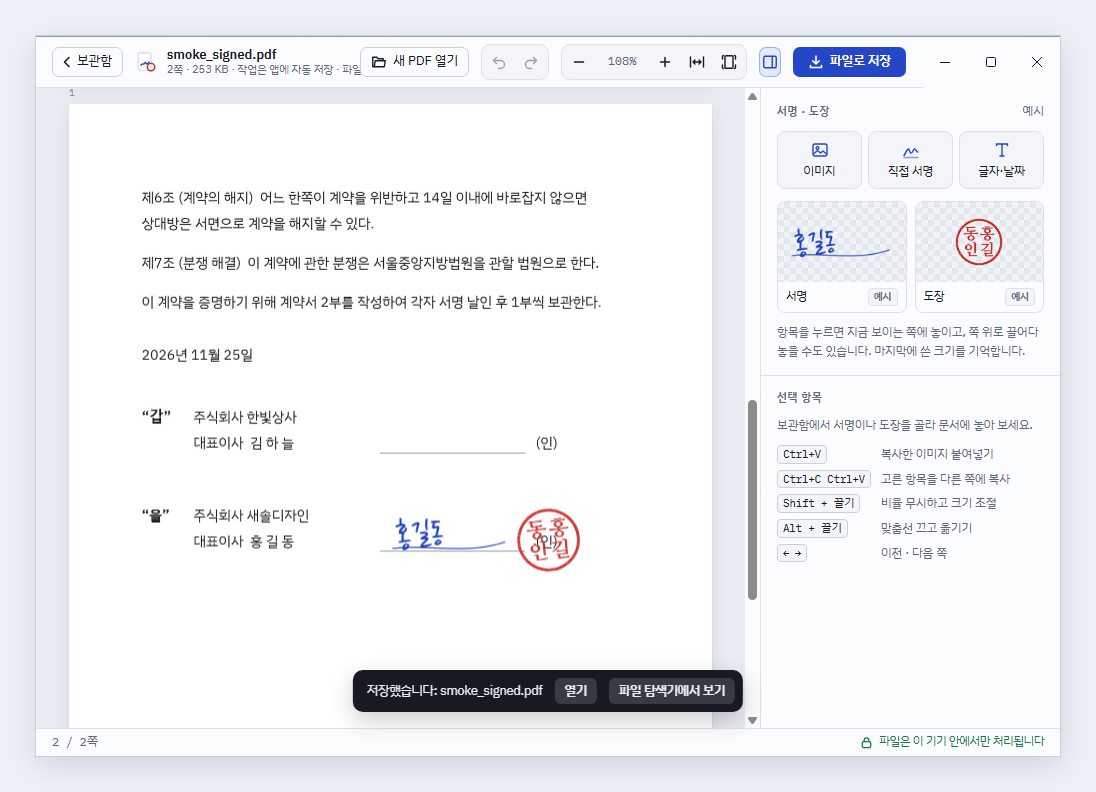
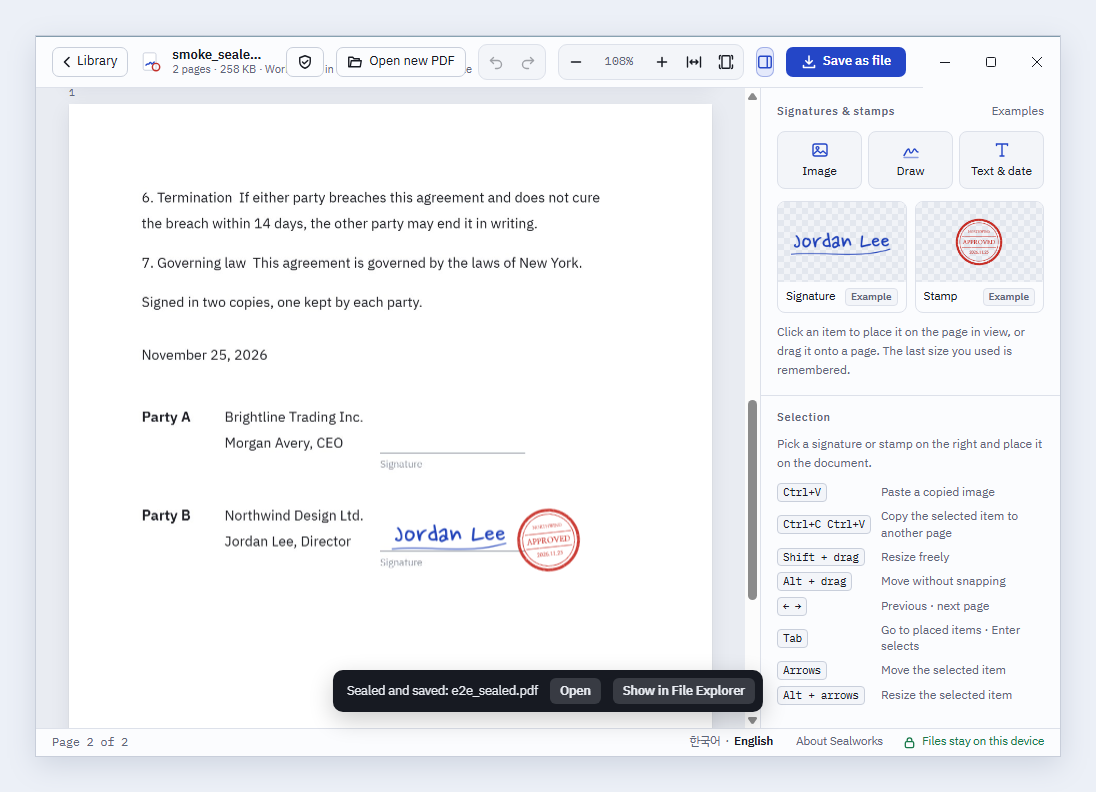
v1.1 Windows screenshots, App Store screenshots, support email, Pages workflow
- README: Windows screenshots from the v1.1 release run (editor, verify seal)
- docs/appstore/screenshots: 2880x1800 Mac App Store shots, English and Korean
- PRIVACY.md: contact support@falconoon.com
- pages workflow publishing site/ to sealworks.falconoon.com

diff --git a/PRIVACY.md b/PRIVACY.md
@@ -80,7 +80,8 @@ If this policy changes, we will publish the new version here with a new effectiv
 ### 9. Contact
 
 - Publisher: Falcon Eyes Inc. (주식회사 팔콘아이즈)
-- Contact: [GitHub Issues](https://github.com/falcons-eyes/pdf-editor/issues). Issues are public, so please don't include personal information or documents.
+- Contact: [support@falconoon.com](mailto:support@falconoon.com). For bug reports you can also use [GitHub Issues](https://github.com/falcons-eyes/pdf-editor/issues); issues are public, so please don't include personal information or documents.
+- Privacy contact: Falcon Eyes Inc. support ([support@falconoon.com](mailto:support@falconoon.com)).
 
 ---
 
@@ -160,5 +161,6 @@ If this policy changes, we will publish the new version here with a new effectiv
 ### 9. 문의처
 
 - 회사: 주식회사 팔콘아이즈 (Falcon Eyes Inc.)
-- 문의: [GitHub Issues](https://github.com/falcons-eyes/pdf-editor/issues). 이슈는 누구나 볼 수 있으니 개인정보나 문서는 올리지 마세요.
-- 개인정보 보호책임자(또는 개인정보 고충 처리 부서)의 성명·부서와 전화번호: **TODO (게시 전 법무 확인 필요):** 「개인정보 보호법」 제30조와 시행령 제31조가 처리방침에 적도록 한 항목입니다. 회사가 개인정보를 처리하지 않더라도 적어 둘지 법무가 정하고, 적는다면 이 줄을 실제 정보로 바꿉니다.
+- 문의: [support@falconoon.com](mailto:support@falconoon.com). 버그 제보는 [GitHub Issues](https://github.com/falcons-eyes/pdf-editor/issues)도 됩니다. 이슈는 누구나 볼 수 있으니 개인정보나 문서는 올리지 마세요.
+- 개인정보 보호책임자: 주식회사 팔콘아이즈 고객지원 담당 ([support@falconoon.com](mailto:support@falconoon.com))
+<!-- 「개인정보 보호법」 제30조·시행령 제31조: 책임자 성명·부서·전화번호를 정하면 이 줄에 추가합니다. -->

diff --git a/README.ko.md b/README.ko.md
@@ -88,12 +88,13 @@ macOS
 
 <img src="docs/images/hero-ko.png" alt="macOS에서 계약서 서명란에 서명과 도장을 놓은 편집 화면" width="900">
 
-Windows (1.0 버전 화면)
+Windows (1.1 버전, Windows 빌드 서버에서 찍은 영어 화면)
 
 <table>
   <tr>
     <td><img src="docs/images/windows-home.png" alt="Windows의 보관함 화면"></td>
-    <td><img src="docs/images/windows-editor.png" alt="Windows의 편집 화면"></td>
+    <td><img src="docs/images/windows-editor.png" alt="Windows의 편집 화면: 서명과 도장을 넣고 봉인한 계약서"></td>
+    <td><img src="docs/images/windows-verify.png" alt="Windows에서 봉인 확인: 봉인 그대로"></td>
   </tr>
 </table>
 

diff --git a/README.md b/README.md
@@ -88,12 +88,13 @@ macOS
 
 <img src="docs/images/hero-en.png" alt="Sealworks on macOS: a contract with a signature and a stamp placed on the signing line" width="900">
 
-Windows (screenshots from version 1.0, in Korean)
+Windows (version 1.1, taken on a Windows runner)
 
 <table>
   <tr>
     <td><img src="docs/images/windows-home.png" alt="The Library screen on Windows"></td>
-    <td><img src="docs/images/windows-editor.png" alt="The editor on Windows"></td>
+    <td><img src="docs/images/windows-editor.png" alt="The editor on Windows: a sealed contract with a signature and a stamp"></td>
+    <td><img src="docs/images/windows-verify.png" alt="Verify seal on Windows: Seal intact"></td>
   </tr>
 </table>
 
